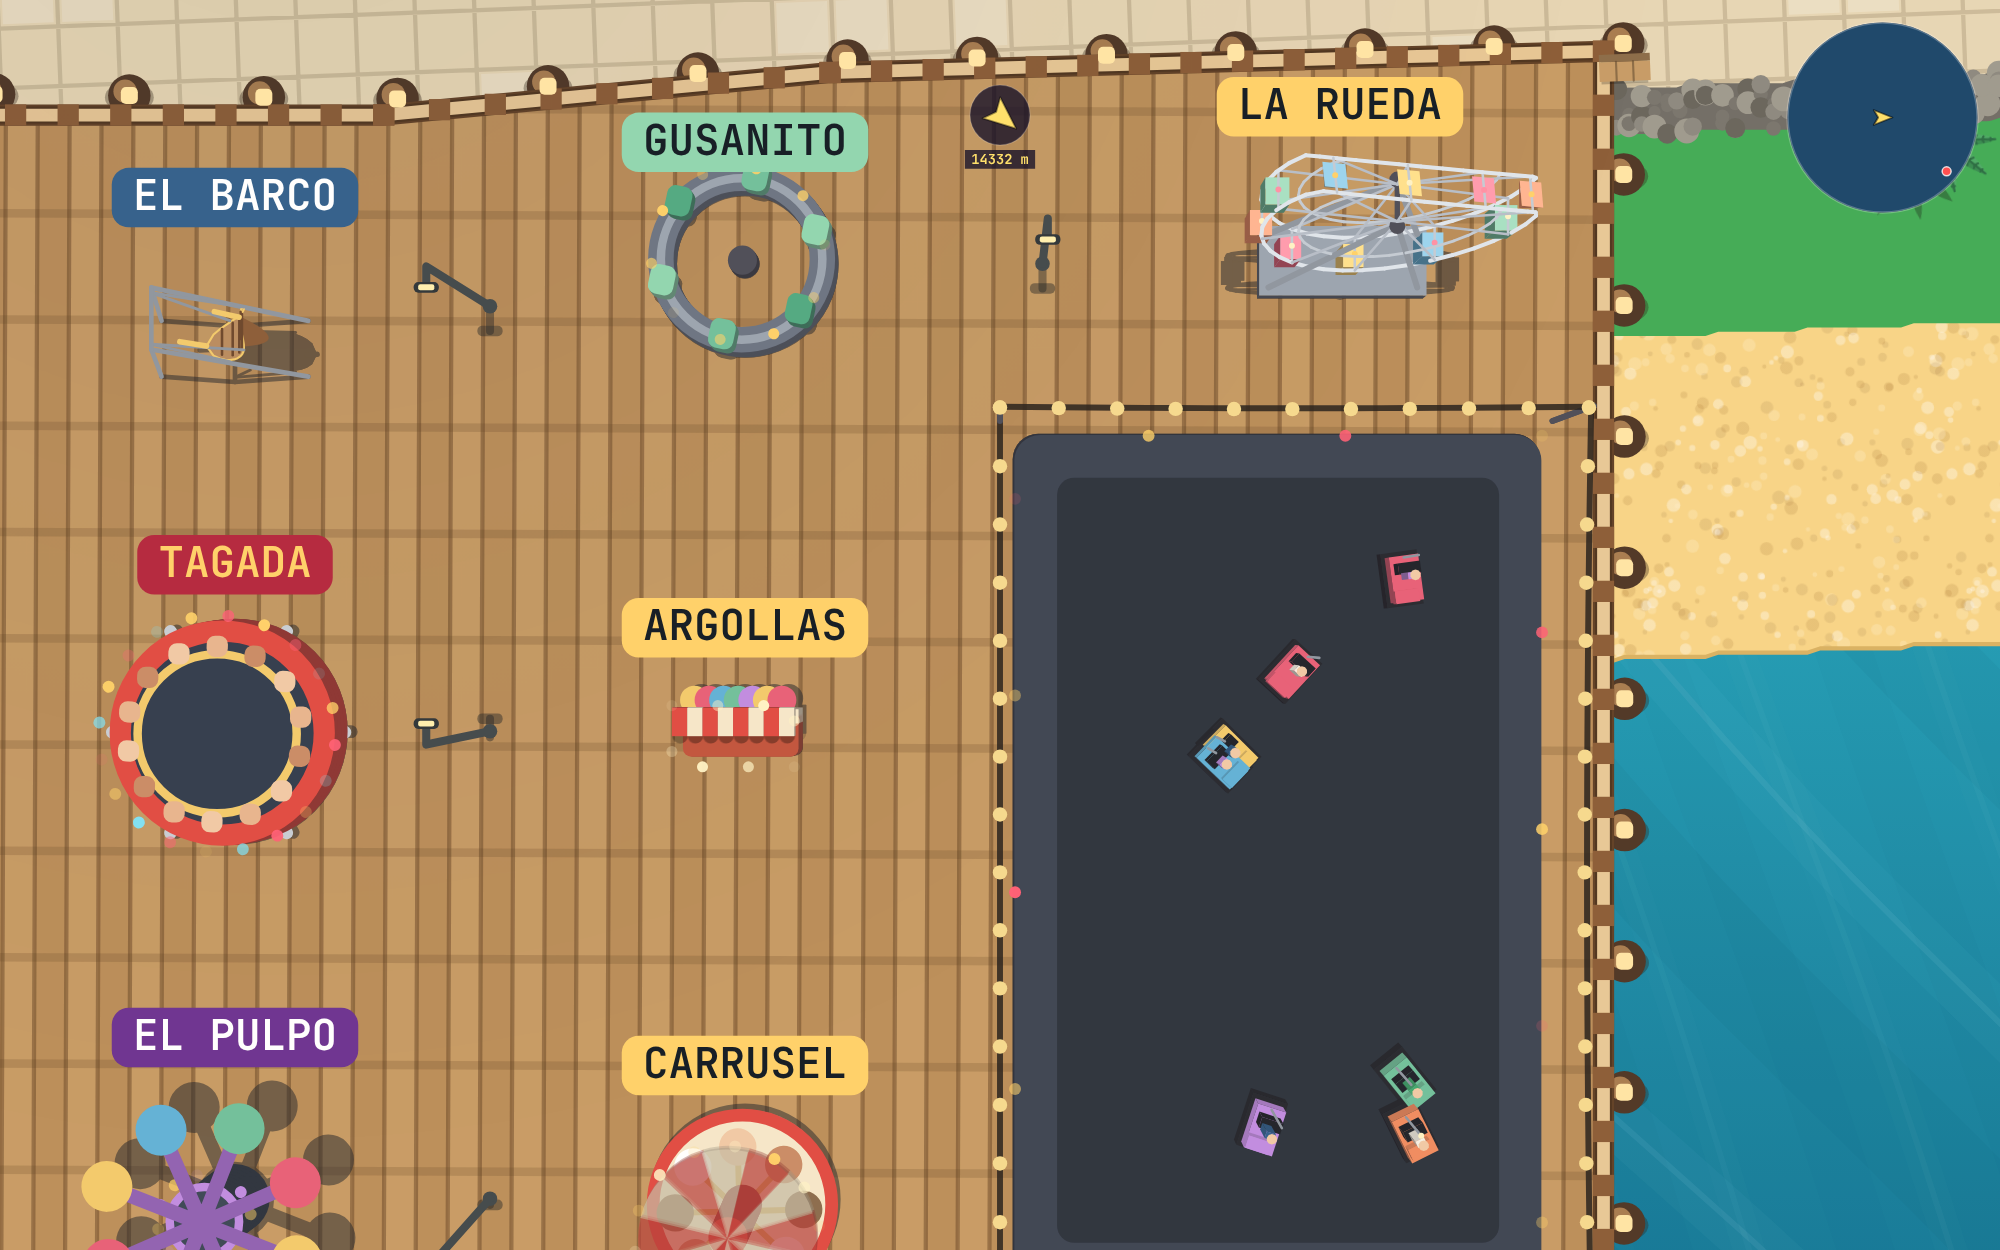
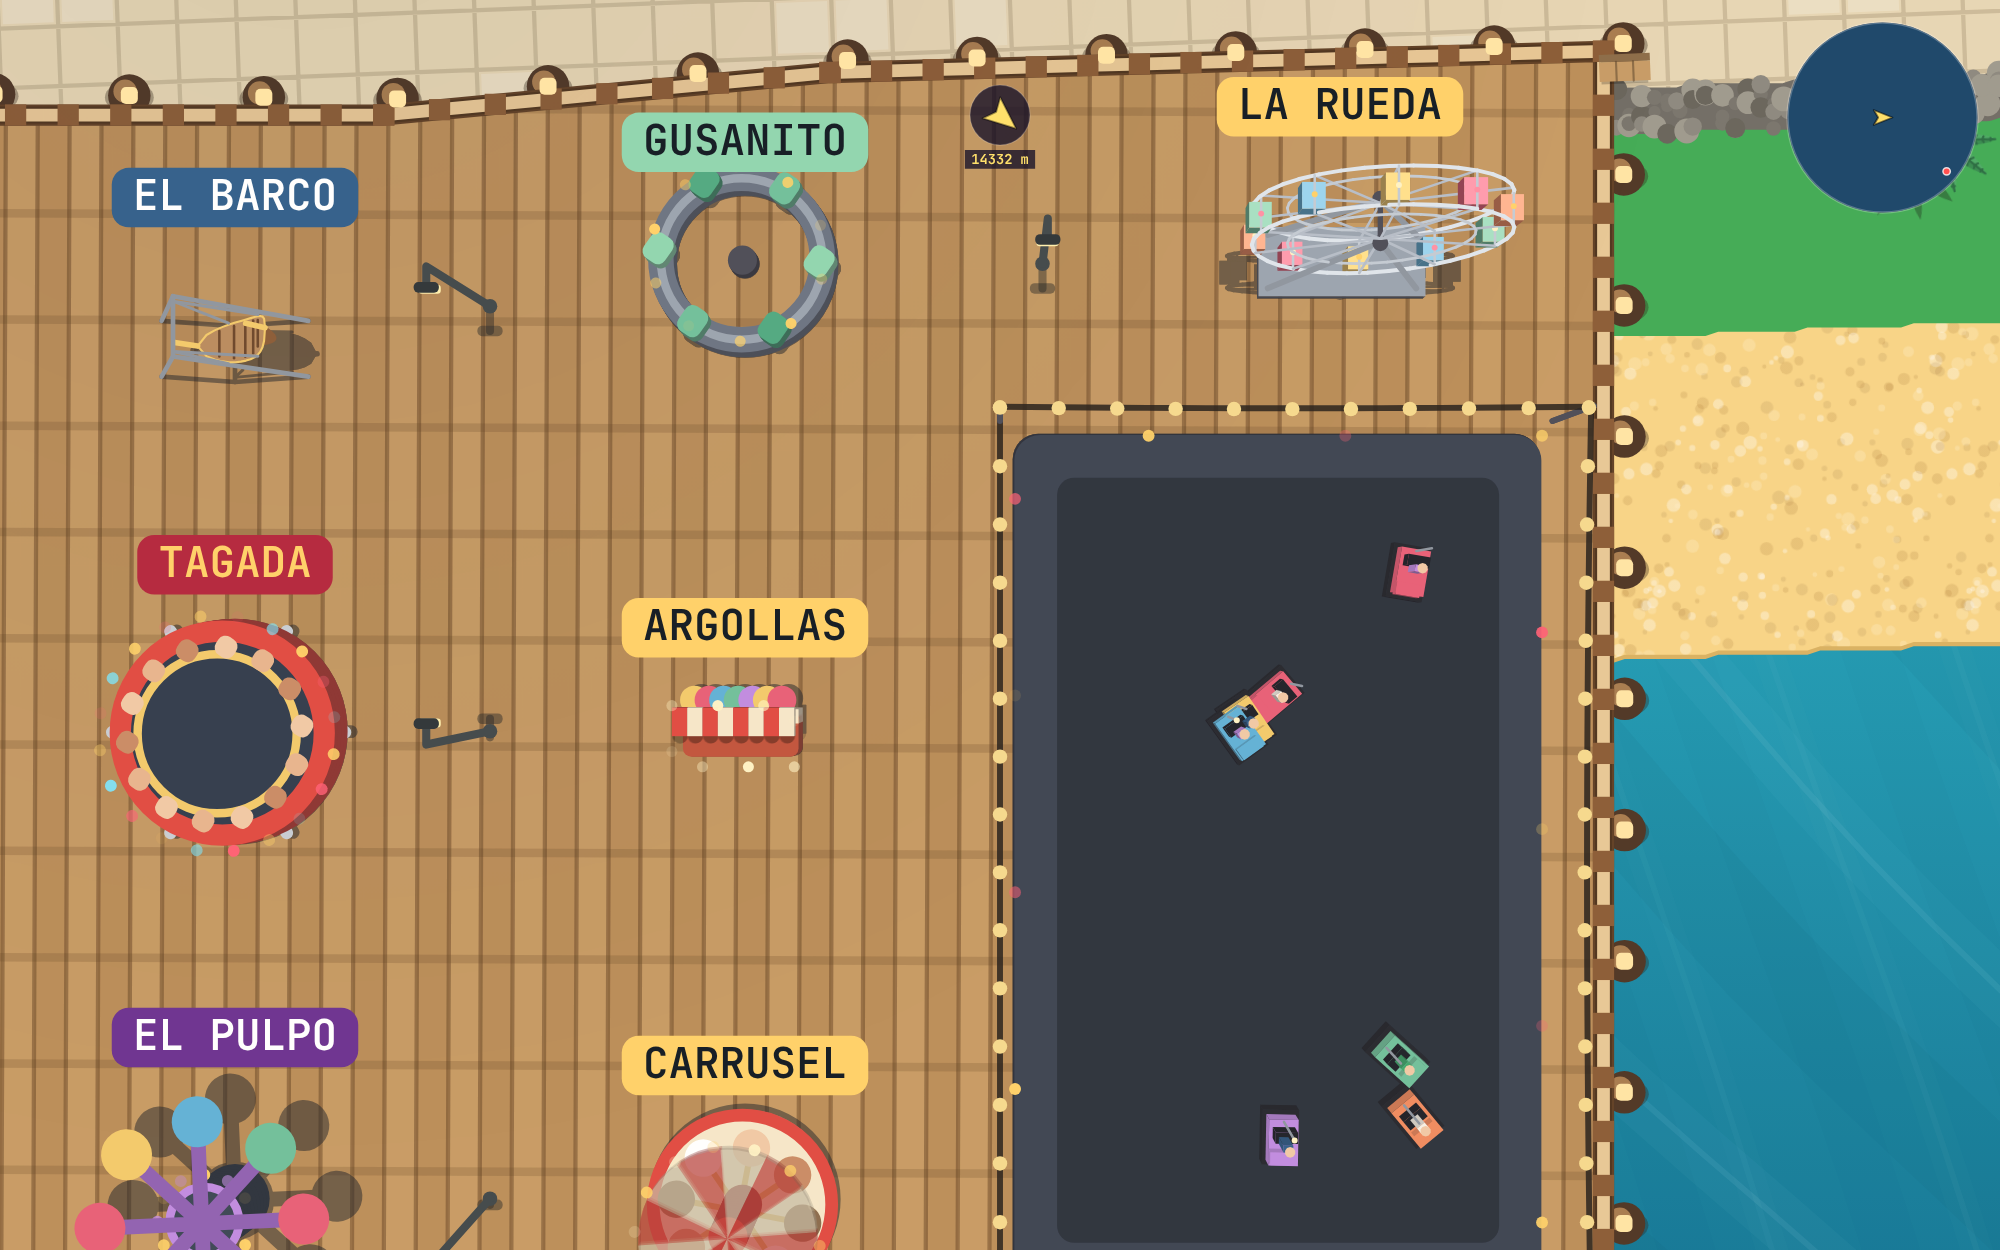
fix(render): la cima de la rueda redonda, el rótulo del DJ fuera de la tarima y la lente de los postes hacia el suelo
- rig3d: el tope de perspectiva se reparte sobre la altura del juego (topM) en vez
  de recortarse punto por punto, que aplanaba la cima de la rueda.
- El rótulo del DJ baja detrás de la tarima y su dosel.
- Luminarias: la lente va bajo la carcasa (lensDropM) y mira al suelo; desde
  arriba se ve la carcasa y apenas el borde de luz.

Claude-Session: https://claude.ai/code/session_018GSydgtbAbdgpJPFkJ2EAM

diff --git a/src/render/c2d/rig3d.js b/src/render/c2d/rig3d.js
@@ -19,21 +19,31 @@ import { parallaxOffset } from "./depth.js";
 import { sunShadow } from "./shadows.js";
 import { mixColor } from "./gfx.js";
 
-const CAM_H = (EFFECTS.parallax || {}).cameraHeightM || 60;
+const PARALLAX = EFFECTS.parallax || {};
+const CAM_H = PARALLAX.cameraHeightM || 60;
+const UNCAPPED = { ...PARALLAX, maxOffsetPx: 0 };
 const TAU = Math.PI * 2;
 
 /**
  * Un aparejo para un juego parado en (x, y) de mundo y girado `rot`.
  * `mode`: "cam" pinta lo que se ve; "sun" pinta su sombra (todo en `shade.shadow`).
  * `shade`: { side, litK, darkK, bottomK, shadow } — las mezclas de las caras, del registro.
+ * `topM`: lo más alto del juego; el tope de perspectiva se reparte sobre esa altura.
  */
-export function makeRig(g, x, y, rot, ppm, cam, mode, shade) {
+export function makeRig(g, x, y, rot, ppm, cam, mode, shade, topM = 0) {
   const c = Math.cos(rot), s = Math.sin(rot);
+  // EL TOPE DE LA PERSPECTIVA SE APLICA AL JUEGO ENTERO, NO A CADA PUNTO. Recortado punto por punto
+  // (como un edificio, que es UNA altura), todo lo que pasa de cierta altura cae al mismo corrimiento
+  // y la cima de la rueda salía PLANA. Se mide el corrimiento sin tope a la altura del juego (`topM`)
+  // y, si pasa del tope, se encoge TODA la altura por el mismo factor: la forma se conserva.
+  const raw = topM > 0 ? parallaxOffset(cam, x, y, topM, ppm, UNCAPPED) : { dx: 0, dy: 0 };
+  const rawLen = Math.hypot(raw.dx, raw.dy), cap = PARALLAX.maxOffsetPx || 0;
+  const squash = cap > 0 && rawLen > cap ? cap / rawLen : 1;
   const ground = (u, v) => [x + (u * c - v * s) * ppm, y + (u * s + v * c) * ppm];
   const sun1 = sunShadow(1);
   const P = mode === "sun"
     ? (u, v, h) => { const p = ground(u, v); return [p[0] + sun1.dx * h, p[1] + sun1.dy * h]; }
-    : (u, v, h) => { const p = ground(u, v); if (!(h > 0)) return p; const o = parallaxOffset(cam, p[0], p[1], h, ppm); return [p[0] + o.dx, p[1] + o.dy]; };
+    : (u, v, h) => { const p = ground(u, v); if (!(h > 0)) return p; const o = parallaxOffset(cam, p[0], p[1], h, ppm, UNCAPPED); return [p[0] + o.dx * squash, p[1] + o.dy * squash]; };
   // la cámara y la luz, en el marco del juego (metros)
   const ex = (cam.x - x) / ppm, ey = (cam.y - y) / ppm;
   const C = [ex * c + ey * s, -ex * s + ey * c, CAM_H];

diff --git a/src/render/c2d/lights.js b/src/render/c2d/lights.js
@@ -111,15 +111,19 @@ function paintStanding(type, spec, x, y, opts) {
   ctx.beginPath(); ctx.arc(x, y, S.postPx * 0.9, 0, Math.PI * 2); ctx.fill();
   ctx.lineWidth = S.postPx;
   ctx.beginPath(); ctx.moveTo(x, y); ctx.lineTo(tx, ty); ctx.lineTo(hx, hy); ctx.stroke();
-  // la cabeza vista desde arriba: carcasa y su lente (o la fila de lentes de una torre)
-  ctx.fillStyle = S.housing; head(hx, hy);
-  ctx.save(); ctx.translate(hx, hy); ctx.rotate(ha); ctx.fillStyle = spec.core;
+  // la cabeza vista desde arriba: la LENTE MIRA AL SUELO. Va un poco más abajo que la carcasa
+  // (`lensDropM`) y se pinta primero, así lo que se ve es la carcasa oscura y apenas el borde de luz
+  // que asoma del lado de la cámara — no un punto amarillo encima del poste.
+  const k = Math.max(0, (H - (S.lensDropM || 0)) / H);
+  const lx = hx0 + hd.dx * k, ly = hy0 + hd.dy * k;
+  ctx.save(); ctx.translate(lx, ly); ctx.rotate(ha); ctx.fillStyle = spec.core;
   const n = S.lamps || 1, cell = hl / n;
-  for (let i = 0; i < n; i++) { ctx.beginPath(); ctx.roundRect(-hl / 2 + cell * (i + 0.18), -hw * 0.28, cell * 0.64, hw * 0.56, hw * 0.2); ctx.fill(); }
+  for (let i = 0; i < n; i++) { ctx.beginPath(); ctx.roundRect(-hl / 2 + cell * (i + 0.06), -hw * 0.42, cell * 0.88, hw * 0.84, hw * 0.3); ctx.fill(); }
   ctx.restore();
+  ctx.fillStyle = S.housing; head(hx, hy);
   // de noche el halo sale de la cabeza: el mismo de siempre, centrado donde está la lente
   const [ox, oy] = spec.haloAt;
-  paintLuminaire(ctx, LIGHTS, type, hx - ox, hy - oy, { ...opts, night: opts.night ?? isNight() }, () => {});
+  paintLuminaire(ctx, LIGHTS, type, lx - ox, ly - oy, { ...opts, night: opts.night ?? isNight() }, () => {});
 }
 
 /** An authored point light from the editor (`W.LIGHTS`). */

diff --git a/src/render/c2d/attractions.js b/src/render/c2d/attractions.js
@@ -226,7 +226,7 @@ function drawRide3d(A, spec, r, t, ph) {
   // ── UNA FORMA: la geometría del juego, en metros, la arma `feriaRigs.js` ──
   const form = V.form && FERIA_FORMS[V.form];
   if (form) {
-    const run = (g, mode) => { const R = makeRig(g, A.x, A.y, rot, ppm, state.cam, mode, SHADE()); form(R, { rM, t, ph, V, A }); R.flush(); };
+    const run = (g, mode) => { const R = makeRig(g, A.x, A.y, rot, ppm, state.cam, mode, SHADE(), V.topM ?? V3.topM); form(R, { rM, t, ph, V, A }); R.flush(); };
     if (lit) withShadow(A, r, sun.alpha * V3.shadowAlpha, (g) => run(g, "sun"));
     queueBodyLike({ x: A.x, y: A.y, paint: () => { run(ctx, "cam"); drawSigns(); } });
     return;
@@ -239,7 +239,7 @@ function drawRide3d(A, spec, r, t, ph) {
   // los carritos chocones: el mismo recorrido que el arte plano (`cars`), cada uno un carrito en 3D
   const drawCars = (g, mode) => {
     if (!carPart) return;
-    const R = makeRig(g, A.x, A.y, rot, ppm, state.cam, mode, SHADE()), p = carPart;
+    const R = makeRig(g, A.x, A.y, rot, ppm, state.cam, mode, SHADE(), V3.topM), p = carPart;
     const n = p.n || 6, w = (p.areaW || 1.6) * r, h = (p.areaH || 0.9) * r;
     for (let i = 0; i < n; i++) {
       const s = hash01(i * 3.7 + ph) * TAU;
